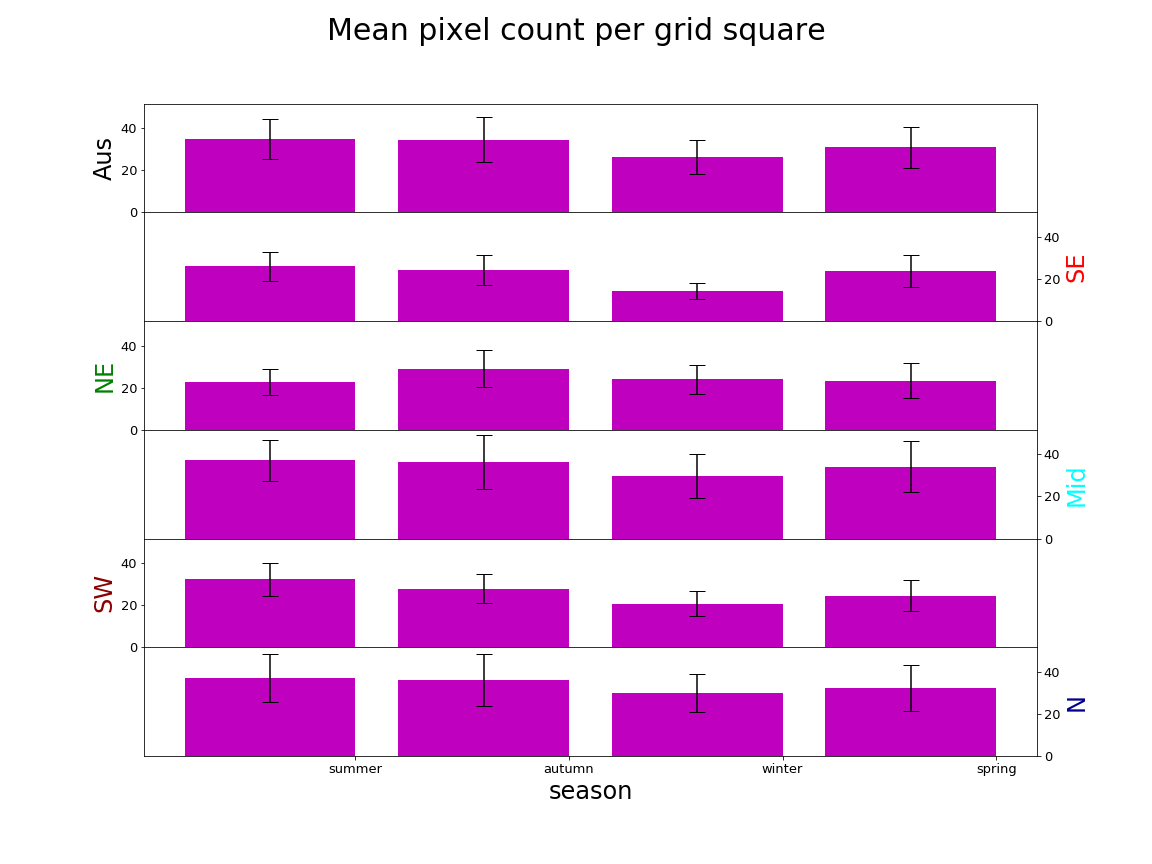
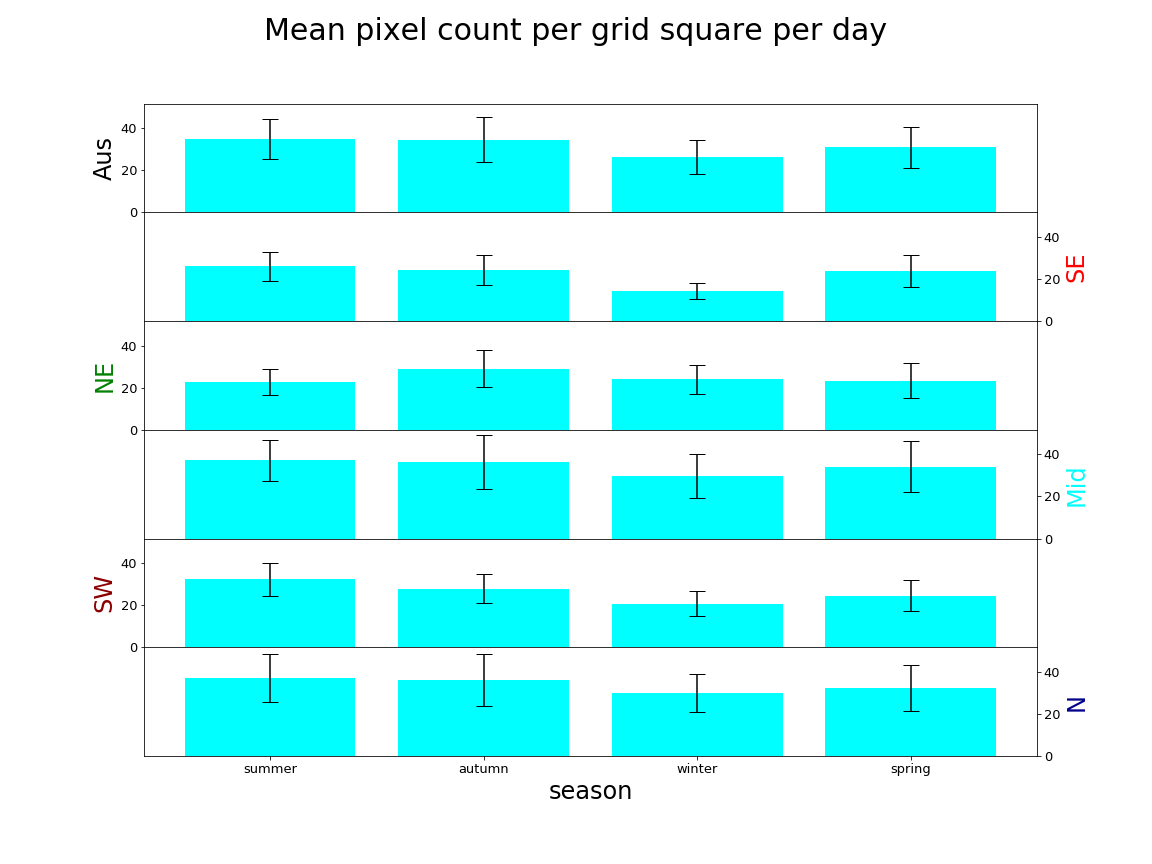
updated plot - fixed pixels bug

diff --git a/chapter_3_isop.py b/chapter_3_isop.py
@@ -178,24 +178,31 @@ def save_overpass_timeseries():
             
     # Now read the satellite product into a similar format
     dkeys=['E_PP_lr','E_MEGAN', 'VCC_OMI_u','VCC_PP_u','pixels_lr','pixels_PP_lr','pixels_PP_u','pixels_u','pixels','pixels_PP']
-    
+    dkeys_lr = ['E_PP_lr','E_MEGAN','pixels_lr','pixels_PP_lr',]
     enew=E_new(d0,d1,dkeys=dkeys)
-    lats=enew.lats_lr
-    lons=enew.lons_lr
+    lats,lons = enew.lats, enew.lons
+    lats_lr=enew.lats_lr
+    lons_lr=enew.lons_lr
     
     assert np.all(dates==enew.dates), "Dates don't match"
     
     # Make sure ocean squares are zero'd 
     oceanmask=util.oceanmask(lats,lons)
+    oceanmask_lr=util.oceanmask(lats_lr,lons_lr)
     oceanmask3d=np.repeat(oceanmask[np.newaxis,:,:],len(dates),axis=0)
-    
+    oceanmask3d_lr=np.repeat(oceanmask_lr[np.newaxis,:,:],len(dates),axis=0)
     for key in dkeys:
         
         # Grab regional subsets
         enewdata=getattr(enew,key).astype(np.float64)
-        enewdata[oceanmask3d] = np.NaN
-        regional,lats_r,lons_r = util.pull_out_subregions(enewdata,lats,lons,subregions=regions)
-        
+        if key in dkeys_lr:
+            enewdata[oceanmask3d_lr] = np.NaN
+            regional,lats_r,lons_r = util.pull_out_subregions(enewdata,lats_lr,lons_lr,subregions=regions)
+            print(key,np.shape(enewdata),' LOW RES', np.shape(oceanmask3d_lr), len(lats_lr),len(lons_lr))
+        else:
+            enewdata[oceanmask3d] = np.NaN
+            regional,lats_r,lons_r = util.pull_out_subregions(enewdata,lats,lons,subregions=regions)
+            print(key,np.shape(enewdata),' HIGH RES', np.shape(oceanmask3d), len(lats),len(lons))
         
         for i,label in enumerate(labels):
             outdict['%s_%s_mean'%(key,label)] = np.nanmean(regional[i], axis=(1,2))
@@ -945,9 +952,10 @@ def pixel_counts_summary():
     
     key = 'pixels_PP_lr'
     keyf= 'pixels_PP'
+    # AT SOME POINT THIS GOT BUGGED!
     keyu= 'pixels_PP_u'
     suptitle='Mean pixel count per grid square per day'
-    suptitle2='Mean pixel count per season per region'
+    suptitle2='Mean total-pixel-count per season per region'
     # Time series
     TS =   [ DF['%s_%s_mean'%(key,reg)] for reg in labels ]
     TSf = [ DF['%s_%s_sum'%(keyf,reg)] for reg in labels ]
